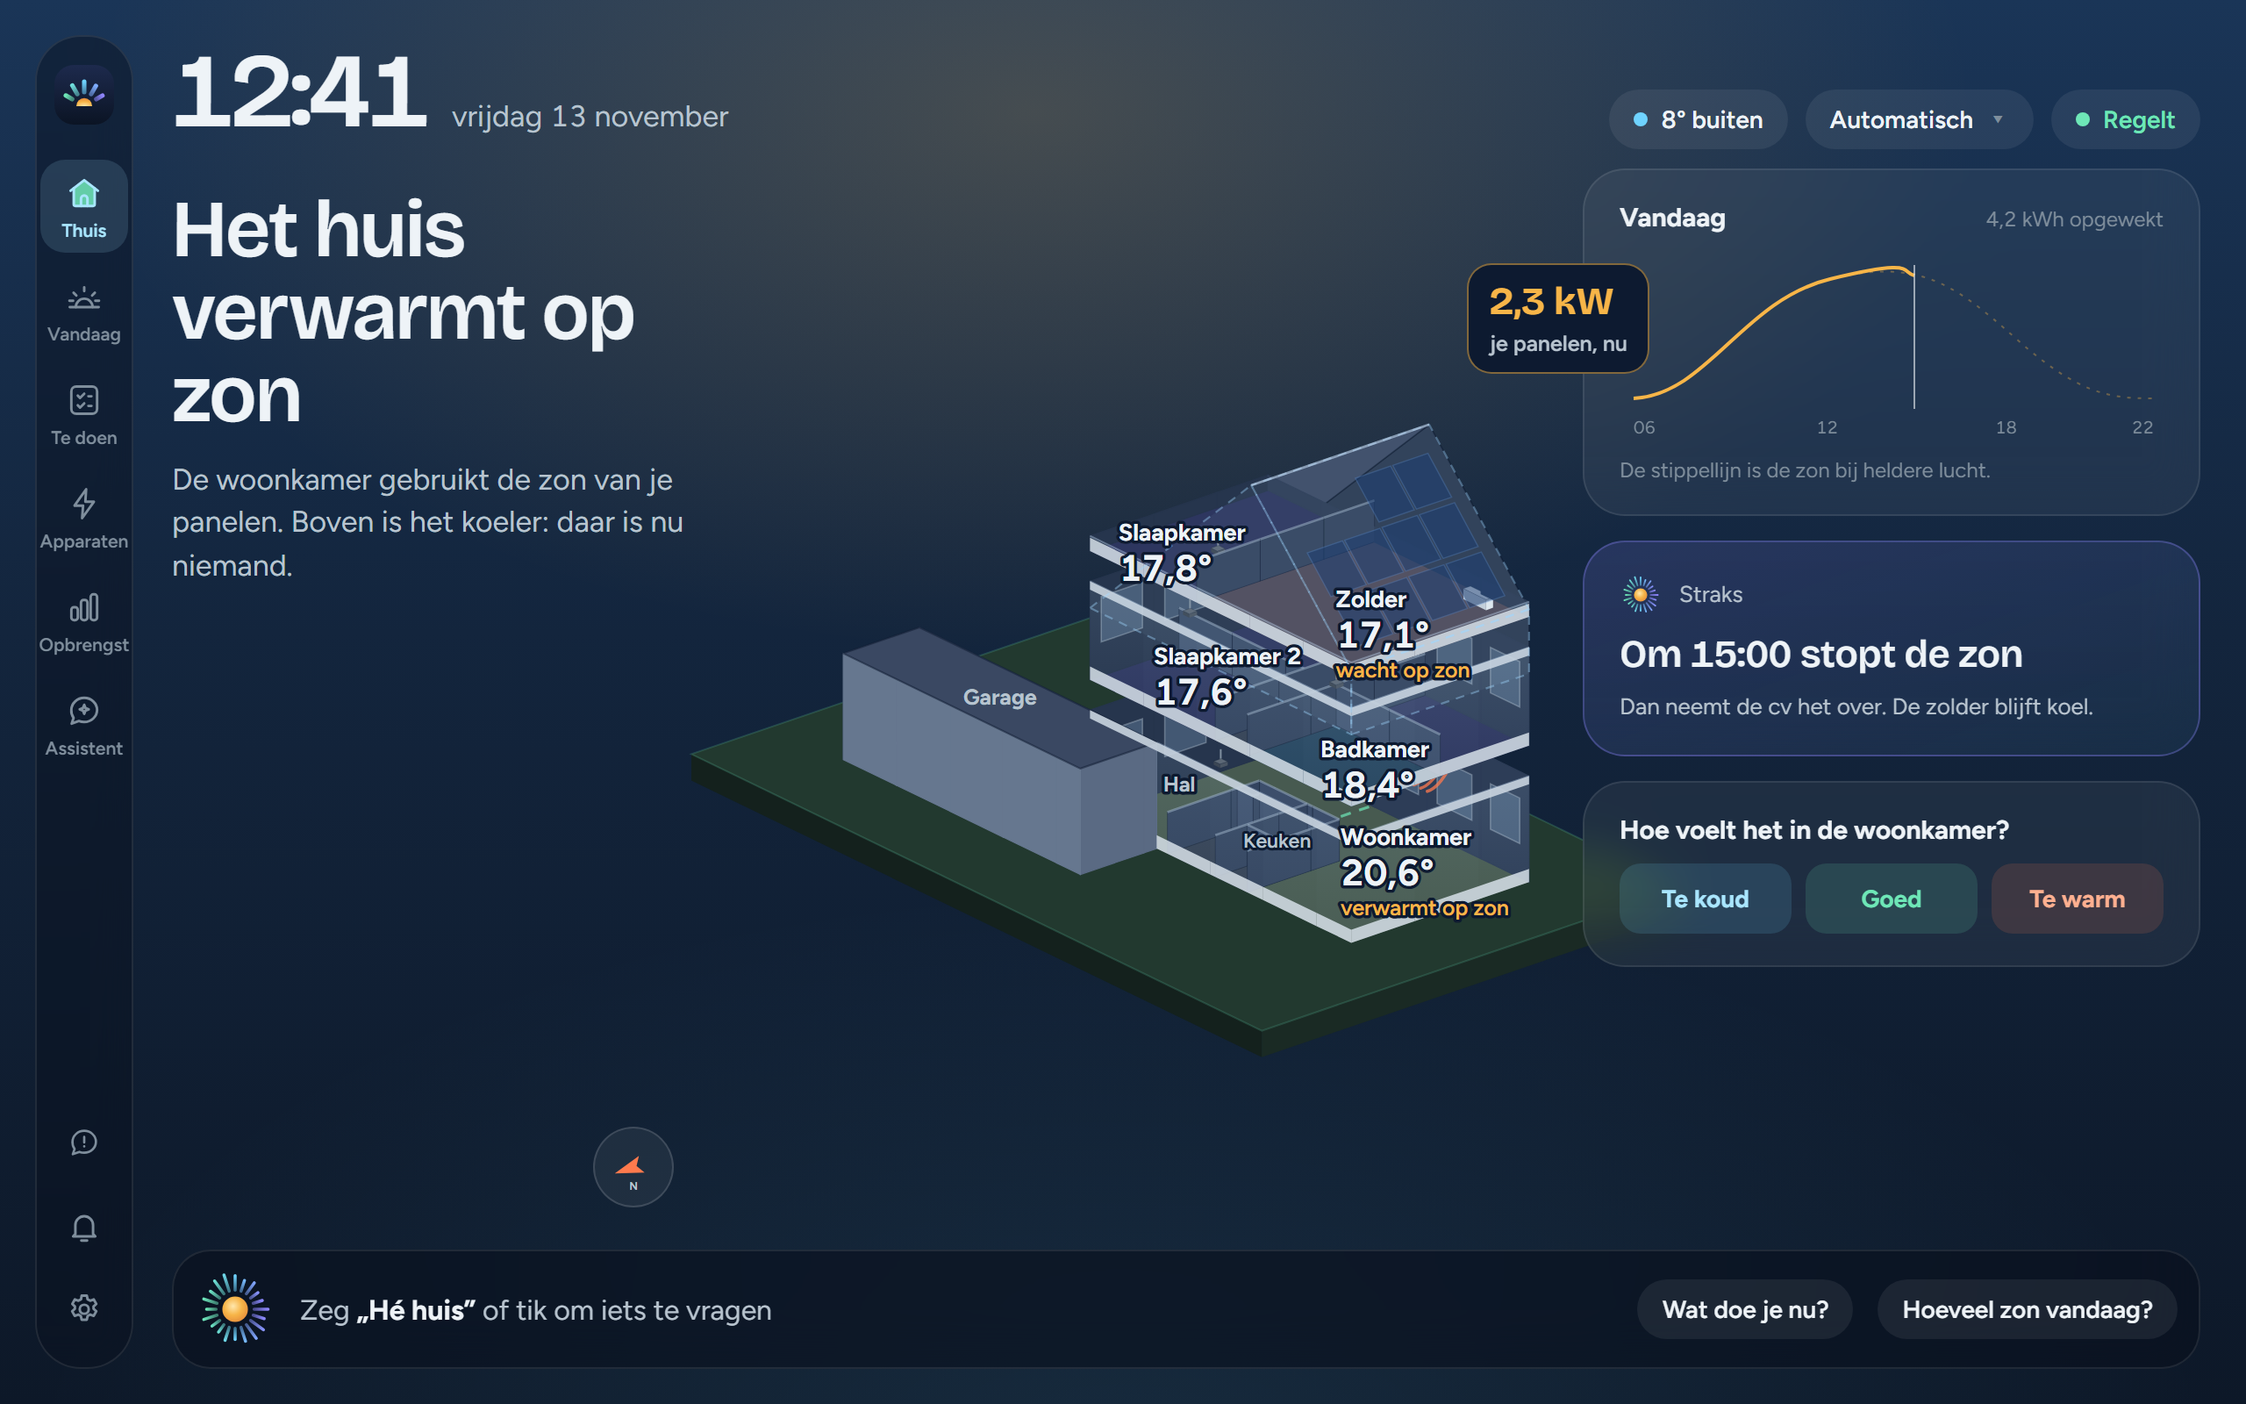
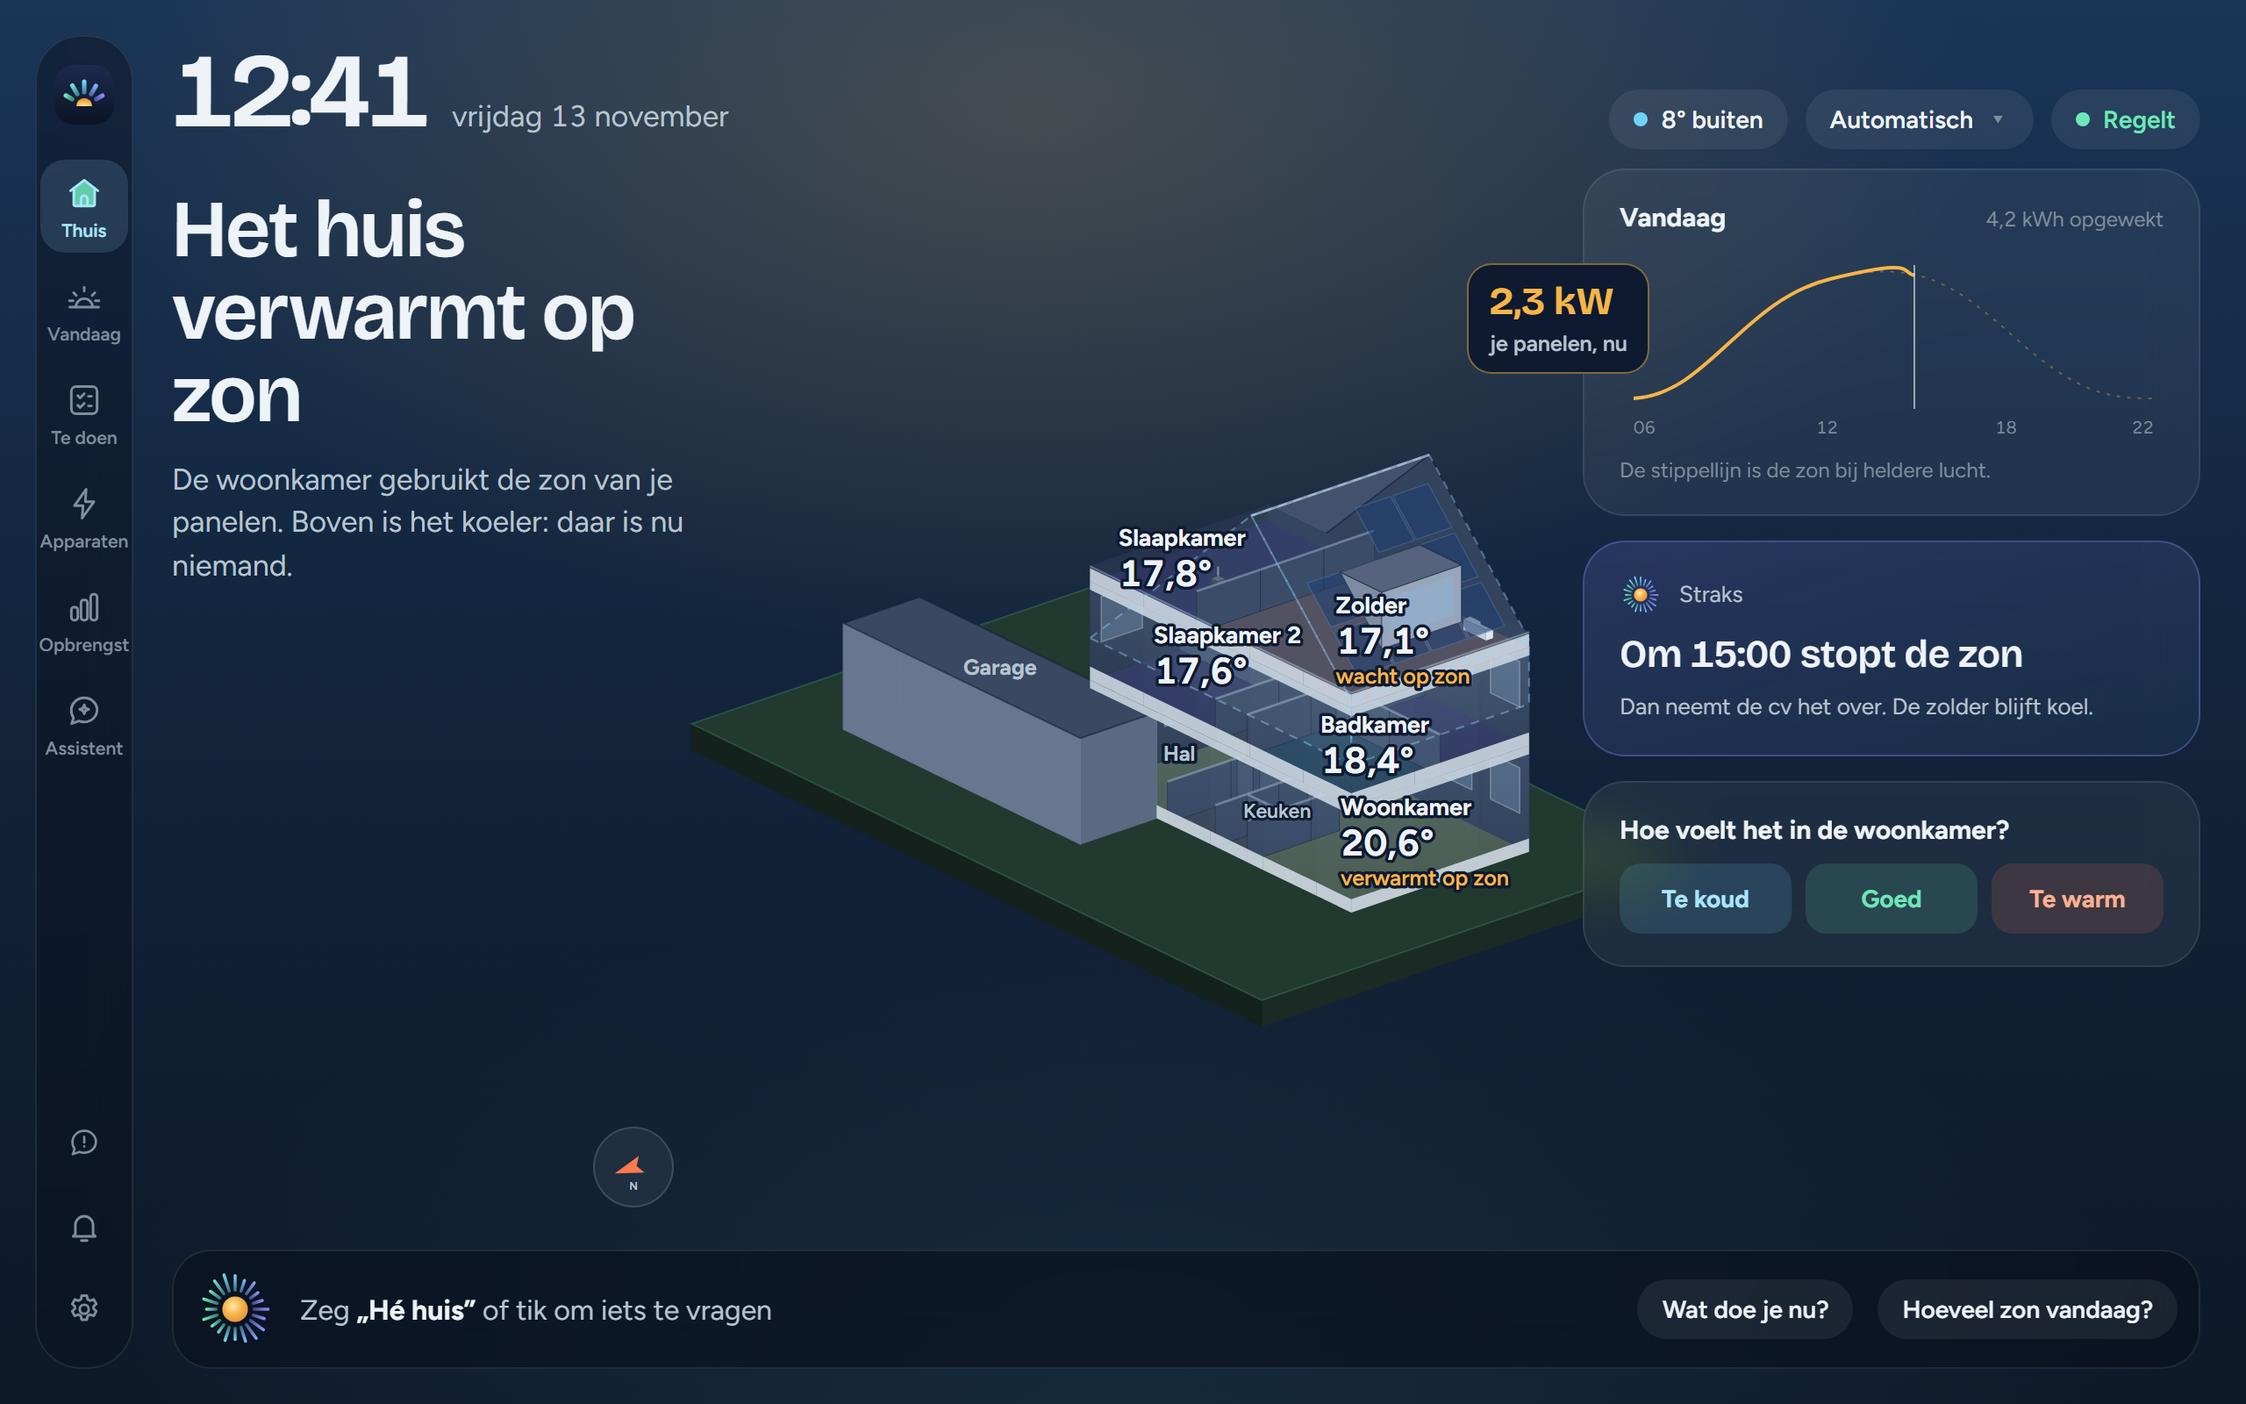
Schets huis op maat: etages op elkaar, de dakkapel uit 3D BAG, een echte auto
Ricardo: geen zwevende verdiepingen, er staat een dakkapel op de kaart, en
wat zijn die blokken op de oprit (de auto). De dienst herkent een dakkapel
in de dakvlakken van 3D BAG (klein, bijna plat, aan een kant van het dak) en
geeft hem per kant met zijn breedte; huis-maat.js zet hem op het dak met een
raam. De etages staan weer op elkaar. De auto heeft wielen, een cabine met
ramen en een schaduw.

Changed region(s): [[0.2812, 0.3125, 0.6875, 0.7188], [0.5312, 0.7188, 0.5625, 0.75]]

diff --git a/frontend/kit/huis-maat.js b/frontend/kit/huis-maat.js
@@ -94,7 +94,37 @@
     // Waar de goot hoger ligt dan de andere, loopt de gevel door tot die goot.
     if (g0 > zl) vlakken.push({ gevel: true, n: N(0, -1), p: [Q(a0, c0, zl), Q(a1, c0, zl), Q(a1, c0, g0), Q(a0, c0, g0)] });
     if (g1 > zl) vlakken.push({ gevel: true, n: N(0, 1), p: [Q(a0, c1, zl), Q(a1, c1, zl), Q(a1, c1, g1), Q(a0, c1, g1)] });
-    return { vlakken, nok, zl, Q, a0, a1, c0, c1, cr, g0, g1, n0, n1 };
+    // Dakkapellen: een kast op de kant van het dak, met een plat dak en een raam naar buiten; op een rij in het midden.
+    const kapellen = [];
+    const lijst = b.dakkapellen ?? [];
+    const opKant = (k) => lijst.filter((x) => x.kant === k);
+    for (const kant of [0, 1]) {
+      const rij = opKant(kant);
+      const totaal = rij.reduce((n, x) => n + x.breed, 0) + Math.max(0, rij.length - 1) * 0.8;
+      let a = (a0 + a1) / 2 - totaal / 2;
+      for (const x of rij) {
+        const [ga, gb] = [a, a + x.breed];
+        a += x.breed + 0.8;
+        const g = kant === 0 ? g0 : g1;
+        const cg = kant === 0 ? c0 : c1;
+        const richting = kant === 0 ? 1 : -1;
+        const breed = Math.abs(cr - cg);
+        if (breed < 1 || nok - g < 1.2) continue;
+        const dakZ = (c) => g + ((nok - g) * Math.abs(c - cg)) / breed;
+        const cv = cg + richting * Math.min(0.7, breed * 0.25);
+        const zv = dakZ(cv);
+        const zt = Math.min(nok - 0.25, zv + 1.5);
+        const ca = cg + (richting * (zt - g) * breed) / (nok - g);
+        kapellen.push({
+          kant,
+          voor: { n: N(0, -richting), p: [Q(ga, cv, zv), Q(gb, cv, zv), Q(gb, cv, zt), Q(ga, cv, zt)] },
+          raam: [Q(ga + 0.25, cv - richting * 0.01, zv + 0.25), Q(gb - 0.25, cv - richting * 0.01, zv + 0.25), Q(gb - 0.25, cv - richting * 0.01, zt - 0.2), Q(ga + 0.25, cv - richting * 0.01, zt - 0.2)],
+          boven: { p: [Q(ga, cv, zt), Q(gb, cv, zt), Q(gb, ca, zt), Q(ga, ca, zt)] },
+          zijden: [{ n: N(-1, 0), p: [Q(ga, cv, zv), Q(ga, cv, zt), Q(ga, ca, zt)] }, { n: N(1, 0), p: [Q(gb, cv, zv), Q(gb, cv, zt), Q(gb, ca, zt)] }],
+        });
+      }
+    }
+    return { vlakken, nok, zl, Q, a0, a1, c0, c1, cr, g0, g1, n0, n1, kapellen };
   }
 
   function teken(t, B, Hpx, o = {}) {
@@ -153,6 +183,8 @@
     const daken = blokken.filter((b) => /zadel|schild|lessenaar/.test(b.dak ?? '')).map((b) => {
       const d = dakVan(b, { goot, nok });
       for (const v of d.vlakken) v.p = v.p.map(([x, y, zz]) => [x, y, zz + dakOp]);
+      for (const kp of d.kapellen) for (const v of [kp.voor, kp.boven, ...kp.zijden]) v.p = v.p.map(([x, y, zz]) => [x, y, zz + dakOp]);
+      for (const kp of d.kapellen) kp.raam = kp.raam.map(([x, y, zz]) => [x, y, zz + dakOp]);
       d.nok += dakOp;
       return { b, ...d };
     });
@@ -252,17 +284,37 @@
       }
       return x2;
     };
-    /** De auto: een lage bak met een cabine erop, en een kabel als hij laadt. */
+    /** Een blok met een andere boven- en onderkant (vier hoeken elk): de zijden naar de kijker, dan de bovenkant. */
+    const prisma = (onder, boven, zij, top) => {
+      let x2 = '';
+      const vlakken = [0, 1, 2, 3].map((i) => {
+        const [a, b] = [onder[i], onder[(i + 1) % 4]];
+        return { p: [a, b, boven[(i + 1) % 4], boven[i]], n: [b[1] - a[1], -(b[0] - a[0])] };
+      });
+      for (const v of vlakken.sort((p1, p2) => dp(p2.p) - dp(p1.p))) if (naarKijker(...v.n)) x2 += `<path d="${vlak(v.p)}" fill="${zij(v)}" stroke="rgb(13 26 48 / 0.35)" stroke-width="0.6" stroke-linejoin="round"/>`;
+      return x2 + `<path d="${vlak(boven)}" fill="${top}" stroke="rgb(13 26 48 / 0.35)" stroke-width="0.6" stroke-linejoin="round"/>`;
+    };
+    /** De auto: een lage carrosserie op wielen, een cabine met ramen, en een bliksem als hij laadt. */
     const auto = (q) => {
-      const kleur = q.kleur ?? '#7f97b0';
-      const donker = '#4d5f75';
-      let x2 = doos({ x: q.x, y: q.y, b: q.b, d: q.d, h: 0.75 }, [donker, '#62758c', kleur, kleur]);
       const lang = q.d > q.b;
-      const c = lang ? { x: q.x + 0.12, y: q.y + q.d * 0.3, b: q.b - 0.24, d: q.d * 0.42, h: 1.35 } : { x: q.x + q.b * 0.3, y: q.y + 0.12, b: q.b * 0.42, d: q.d - 0.24, h: 1.35 };
-      x2 += doos({ ...c, h: 1.35 }, ['#26364d', '#2f425c', '#9fb3c8', '#9fb3c8']).replace(/<path d="M([^"]*)" fill="#9fb3c8"/, (m0) => m0);
+      // f langs de auto (0 achter, 1 voor), g dwars (0..1).
+      const W = (f, g, z) => (lang ? [q.x + g * q.b, q.y + f * q.d, z] : [q.x + f * q.b, q.y + g * q.d, z]);
+      const rect = (f0, f1, g0, g1, z) => [W(f0, g0, z), W(f1, g0, z), W(f1, g1, z), W(f0, g1, z)];
+      const kleur = q.kleur ?? '#a9b8c9';
+      let x2 = '';
+      const sch = P(q.x + q.b / 2, q.y + q.d / 2, 0.01);
+      x2 += `<ellipse cx="${sch[0].toFixed(1)}" cy="${sch[1].toFixed(1)}" rx="${(Math.max(q.b, q.d) * 0.55 * k).toFixed(1)}" ry="${(Math.max(q.b, q.d) * 0.55 * k * sp).toFixed(1)}" fill="#000" fill-opacity="0.22"/>`;
+      // De wielen aan de kant van de kijker.
+      const zijWiel = naarKijker(...(lang ? [-1, 0] : [0, -1])) ? 0 : 1;
+      for (const f of [0.18, 0.8]) {
+        const c = W(f, zijWiel === 0 ? -0.01 : 1.01, 0.32);
+        x2 += cirkel(c[0], c[1], c[2], 0.3, lang ? 'x' : 'y', 'fill="#1c2430" stroke="#3a4656" stroke-width="1"');
+      }
+      x2 += prisma(rect(0, 1, 0, 1, 0.28), rect(0.02, 0.98, 0.02, 0.98, 0.82), () => kleur, '#c4d0dc');
+      x2 += prisma(rect(0.24, 0.8, 0.07, 0.93, 0.82), rect(0.36, 0.7, 0.13, 0.87, 1.36), () => '#2b3c55', '#b7c5d3');
       if (q.laadt) {
-        const p = P(q.x + q.b / 2, q.y + q.d / 2, 1.6);
-        x2 += `<circle cx="${p[0].toFixed(1)}" cy="${p[1].toFixed(1)}" r="14" fill="url(#hm-gloed)" opacity="0.5"/><circle cx="${p[0].toFixed(1)}" cy="${p[1].toFixed(1)}" r="9" fill="#0d1a30" stroke="#6ee7b7" stroke-width="1.6"/><path d="M${(p[0] + 1).toFixed(1)} ${(p[1] - 5).toFixed(1)}l-4 6h4l-1 5 4-6h-4z" fill="#6ee7b7"/>`;
+        const p = P(q.x + q.b / 2, q.y + q.d / 2, 1.8);
+        x2 += `<circle cx="${p[0].toFixed(1)}" cy="${p[1].toFixed(1)}" r="9" fill="#0d1a30" stroke="#6ee7b7" stroke-width="1.6"/><path d="M${(p[0] + 1).toFixed(1)} ${(p[1] - 5).toFixed(1)}l-4 6h4l-1 5 4-6h-4z" fill="#6ee7b7"/>`;
       }
       return x2;
     };
@@ -304,6 +356,17 @@
       return x;
     };
     for (const d of daken) for (const v of [...d.vlakken].sort((a, b) => dp(b.p) - dp(a.p))) s += dakVlak(d, v);
+    /** Een dakkapel: de wanden naar de kijker, het platte dak, en het raam (warm als het avond is). */
+    const kapel = (kp) => {
+      let x2 = '';
+      for (const z of kp.zijden) if (naarKijker(...z.n)) x2 += `<path d="${vlak(z.p)}" fill="#7d8ca1" stroke="rgb(13 26 48 / 0.4)" stroke-width="0.6"/>`;
+      if (naarKijker(...kp.voor.n)) {
+        x2 += `<path d="${vlak(kp.voor.p)}" fill="#97a6ba" stroke="rgb(13 26 48 / 0.4)" stroke-width="0.6"/>`;
+        x2 += `<path d="${vlak(kp.raam)}" fill="${o.avond ? '#f3c77a' : '#8fb4d6'}" fill-opacity="${o.avond ? 0.6 : 0.45}"/>`;
+      }
+      return x2 + `<path d="${vlak(kp.boven.p)}" fill="#55647c" stroke="rgb(13 26 48 / 0.5)" stroke-width="0.6"/>`;
+    };
+    for (const d of daken) for (const kp of d.kapellen) if (!naarKijker(...kp.voor.n)) s += kapel(kp);
 
     const kamerVan = (r) => (r?.kamer ? r.kamer : null);
     lagen.forEach((laag, li) => {
@@ -538,6 +601,7 @@
         s += `<path d="${vlak(v.p)}" fill="rgb(191 230 255 / 0.05)" stroke="#9fd8ff" stroke-opacity="0.4" stroke-width="1.1" stroke-dasharray="5 4" stroke-linejoin="round"/>`;
         if (d === hoofdDak && v.dak && paneelVan(v)) s += `<g opacity="0.55">${paneelVeld(d, v)}</g>`;
       }
+      for (const kp of d.kapellen) if (naarKijker(...kp.voor.n)) s += kapel(kp);
       // De nok als dunne lijn.
       s += `<path d="M${pt(...d.Q(d.n0, d.cr, d.nok))}L${pt(...d.Q(d.n1, d.cr, d.nok))}" stroke="#cfe6ff" stroke-opacity="0.6" stroke-width="1.4"/>`;
     }

diff --git a/backend/src/web/huistekening.ts b/backend/src/web/huistekening.ts
@@ -203,6 +203,13 @@ export interface Blok {
   readonly goot0?: number;
   readonly goot1?: number;
   readonly nokVan0?: number;
+  /**
+   * Dakkapellen (13 november 2026, Ricardo: "er is een dakkapel op de kaart"):
+   * per stuk de kant van het dak (0: voor of links, 1: achter of rechts) en
+   * hoe breed hij is. Uit 3D BAG: een klein, bijna plat dakvlak dat dezelfde
+   * kant op kijkt als een schuine kant van het dak.
+   */
+  readonly dakkapellen?: readonly { readonly kant: 0 | 1; readonly breed: number }[];
 }
 
 export interface TekenVorm {
@@ -439,7 +446,8 @@ export function bronVorm(d: Daken, voorgevelDeg: number | null, woning: string |
   const dak = (b: Blok): Blok => {
     if (b.soort !== 'hoofdhuis') return { ...b, ...bijDak(b, 2.8) };
     const scheef = uitBag ? scheefDak(b, d.kaartDak ?? [], v.uDeg, nok, hoofd.hoogteGoot!) : null;
-    return { ...b, nok, ...(scheef ?? { goot0: uitBag ? hoofd.hoogteGoot! : geschat, goot1: uitBag ? hoofd.hoogteGoot! : geschat }) };
+    const kapellen = uitBag ? dakkapellen(b, d.kaartDak ?? [], v.uDeg) : [];
+    return { ...b, nok, ...(scheef ?? { goot0: uitBag ? hoofd.hoogteGoot! : geschat, goot1: uitBag ? hoofd.hoogteGoot! : geschat }), ...(kapellen.length ? { dakkapellen: kapellen } : {}) };
   };
   const blokken = v.blokken.map((b) => dak({ ...b, u: m1(b.u - v.nul.u), v: m1(b.v - v.nul.v) }));
   const h = blokken.find((b) => b.soort === 'hoofdhuis');
@@ -497,6 +505,27 @@ export function scheefDak(b: Blok, vlakken: readonly { readonly azimuthDeg: numb
   const van0 = (breed * k0.w) / (k0.w + k1.w);
   const goot = (afstand: number, k: { tan: number; n: number }) => m1(Math.min(nok, Math.max(1.5, nok - afstand * (k.tan / k.n))));
   return { nokVan0: m1(van0), goot0: goot(van0, k0), goot1: goot(breed - van0, k1) };
+}
+
+/**
+ * De dakkapellen van een schuin dak uit de dakvlakken van 3D BAG: een vlak
+ * van 1,5 tot 15 m² met een helling onder 15° dat dezelfde kant op kijkt als
+ * een kant van het dak. Zo breed als zijn oppervlak gedeeld door twee meter
+ * diepte, tussen 1,2 m en de breedte van het dak min een meter.
+ */
+export function dakkapellen(b: Blok, vlakken: readonly { readonly azimuthDeg: number; readonly tiltDeg: number; readonly m2: number }[], uDeg: number | null): { kant: 0 | 1; breed: number }[] {
+  if (uDeg == null || b.dak === 'plat' || b.dak === 'lessenaar') return [];
+  const richting1 = b.nokLangs === 'y' ? uDeg : uDeg - 90;
+  const verschil = (a: number, c: number) => Math.abs(((a - c + 540) % 360) - 180);
+  const langs = b.nokLangs === 'y' ? b.d : b.b;
+  const uit: { kant: 0 | 1; breed: number }[] = [];
+  for (const x of vlakken) {
+    if (x.tiltDeg >= 15 || x.m2 < 1.5 || x.m2 > 15) continue;
+    const kant = verschil(x.azimuthDeg, richting1) <= 45 ? 1 : verschil(x.azimuthDeg, richting1 + 180) <= 45 ? 0 : -1;
+    if (kant < 0) continue;
+    uit.push({ kant: kant === 1 ? 1 : 0, breed: m1(Math.min(langs - 1, Math.max(1.2, x.m2 / 2))) });
+  }
+  return uit.slice(0, 4);
 }
 
 /**

diff --git a/backend/test/huistekening.test.ts b/backend/test/huistekening.test.ts
@@ -6,7 +6,7 @@
 import { describe, expect, it } from 'vitest';
 
 import type { Daken, DakVlak, Gebouw, Xy } from '../src/web/daken.js';
-import { bronVanDaken, bronVorm, dakenMetBron, gebouwErbij, gebouwWeg, scheefDak, eenPapier, etageHoogtes, lagenOnderDak, leesEtage, leesPlek, leesTekening, leesZoneLijn, tekenSoort, tekenVorm, verschuif, WONING_MAAT, zoneVanPlek } from '../src/web/huistekening.js';
+import { bronVanDaken, bronVorm, dakenMetBron, dakkapellen, gebouwErbij, gebouwWeg, scheefDak, eenPapier, etageHoogtes, lagenOnderDak, leesEtage, leesPlek, leesTekening, leesZoneLijn, tekenSoort, tekenVorm, verschuif, WONING_MAAT, zoneVanPlek } from '../src/web/huistekening.js';
 import { validateLayout, type LayoutKnown } from '../src/web/layout.js';
 
 const known: LayoutKnown = {
@@ -282,6 +282,18 @@ describe('je huis tekenen: de bronnen bij Vorm (stap 4)', () => {
  * Stap 5 (Huis in 3D): de nok hoeft niet in het midden. Uit de dakvlakken van
  * 3D BAG volgt waar hij ligt en hoe hoog de goot aan elke kant is.
  */
+describe('je huis tekenen: een dakkapel uit 3D BAG', () => {
+  const blok = { id: 'hoofd', soort: 'hoofdhuis' as const, u: 0, v: 0, b: 5.6, d: 9.9, dak: 'zadel' as const, nokLangs: 'x' as const };
+  it('herkent een klein, bijna plat dakvlak aan een kant van het dak', () => {
+    // Het huis van Ricardo: de voorgevel op het oosten, een plat stukje van 4,9 m² aan de voorkant; de garage (plat, 20,7 m²) telt niet.
+    const vlakken = [{ azimuthDeg: 92, tiltDeg: 5.2, m2: 4.9 }, { azimuthDeg: 92, tiltDeg: 45.9, m2: 5 }, { azimuthDeg: 0, tiltDeg: 0.6, m2: 20.7 }, { azimuthDeg: 93, tiltDeg: 42.9, m2: 28.6 }, { azimuthDeg: 272, tiltDeg: 43.9, m2: 41.5 }];
+    // u loopt naar het noorden (0) en v naar het westen: kant 1 (achter) kijkt naar het westen, kant 0 (voor) naar het oosten.
+    expect(dakkapellen(blok, vlakken, 0)).toEqual([{ kant: 0, breed: 2.5 }]);
+    expect(dakkapellen({ ...blok, dak: 'plat' }, vlakken, 0)).toEqual([]);
+    expect(dakkapellen(blok, vlakken, null)).toEqual([]);
+  });
+});
+
 describe('je huis tekenen: een gebouw erbij bij Vorm (0.185.0)', () => {
   const blok = (x0: number, y0: number, x1: number, y1: number): Xy[] => [[x0, y0], [x1, y0], [x1, y1], [x0, y1]];
   const huis: Gebouw = { id: 'huis', soort: 'hoofdhuis', bron: 'kaart', kaart: 'bag3d', omtrek: blok(-5, -4, 5, 4), dakvorm: 'zadel', nokDeg: 90 };

diff --git a/design/app2/huistekenen-voorbeeld.js b/design/app2/huistekenen-voorbeeld.js
@@ -125,7 +125,7 @@
    * begane grond is zijn eigen schets (12 november 2026), op deze maat gezet.
    */
   const gar = { id: 'garage', soort: 'garage', naam: 'Garage', u: 0, v: 0, b: 8.9, d: 2.4, dak: 'plat dak' };
-  const hs = { id: 'hoofd', soort: 'hoofdhuis', naam: 'Hoofdhuis', u: 6.4, v: 2.4, b: 9.8, d: 5.6, dak: 'zadeldak', nokLangs: 'y', nokVanRechts: 3.75, gootLinks: 3.9, gootRechts: 5.6 };
+  const hs = { id: 'hoofd', soort: 'hoofdhuis', naam: 'Hoofdhuis', u: 6.4, v: 2.4, b: 9.8, d: 5.6, dak: 'zadeldak', nokLangs: 'y', nokVanRechts: 3.75, gootLinks: 3.9, gootRechts: 5.6, dakkapellen: [{ kant: 1, breed: 2.5 }] };
   const hsRecht = { ...hs, nokVanRechts: 4.9, gootLinks: 5.4, gootRechts: 5.4 };
   global.huistekenenJouw = {
     maat: { breed: 16.2, diep: 8 },

diff --git a/design/app2/thuis-maat-schets.js b/design/app2/thuis-maat-schets.js
@@ -81,7 +81,7 @@
 
   const VOORBEELD = {
     hoek: 28,
-    lucht: 0.8,
+    lucht: 0,
     hoogte: 24,
     panelen: { aantal: 12, kant: 1 },
     aan: ['airco-woon', 'vaat', 'accu', 'laadpaal'],
@@ -98,7 +98,7 @@
   };
   const JOUW = (avond) => ({
     hoek: 50,
-    lucht: 0.8,
+    lucht: 0,
     hoogte: 24,
     panelen: { aantal: 10, kant: 1 },
     avond,
